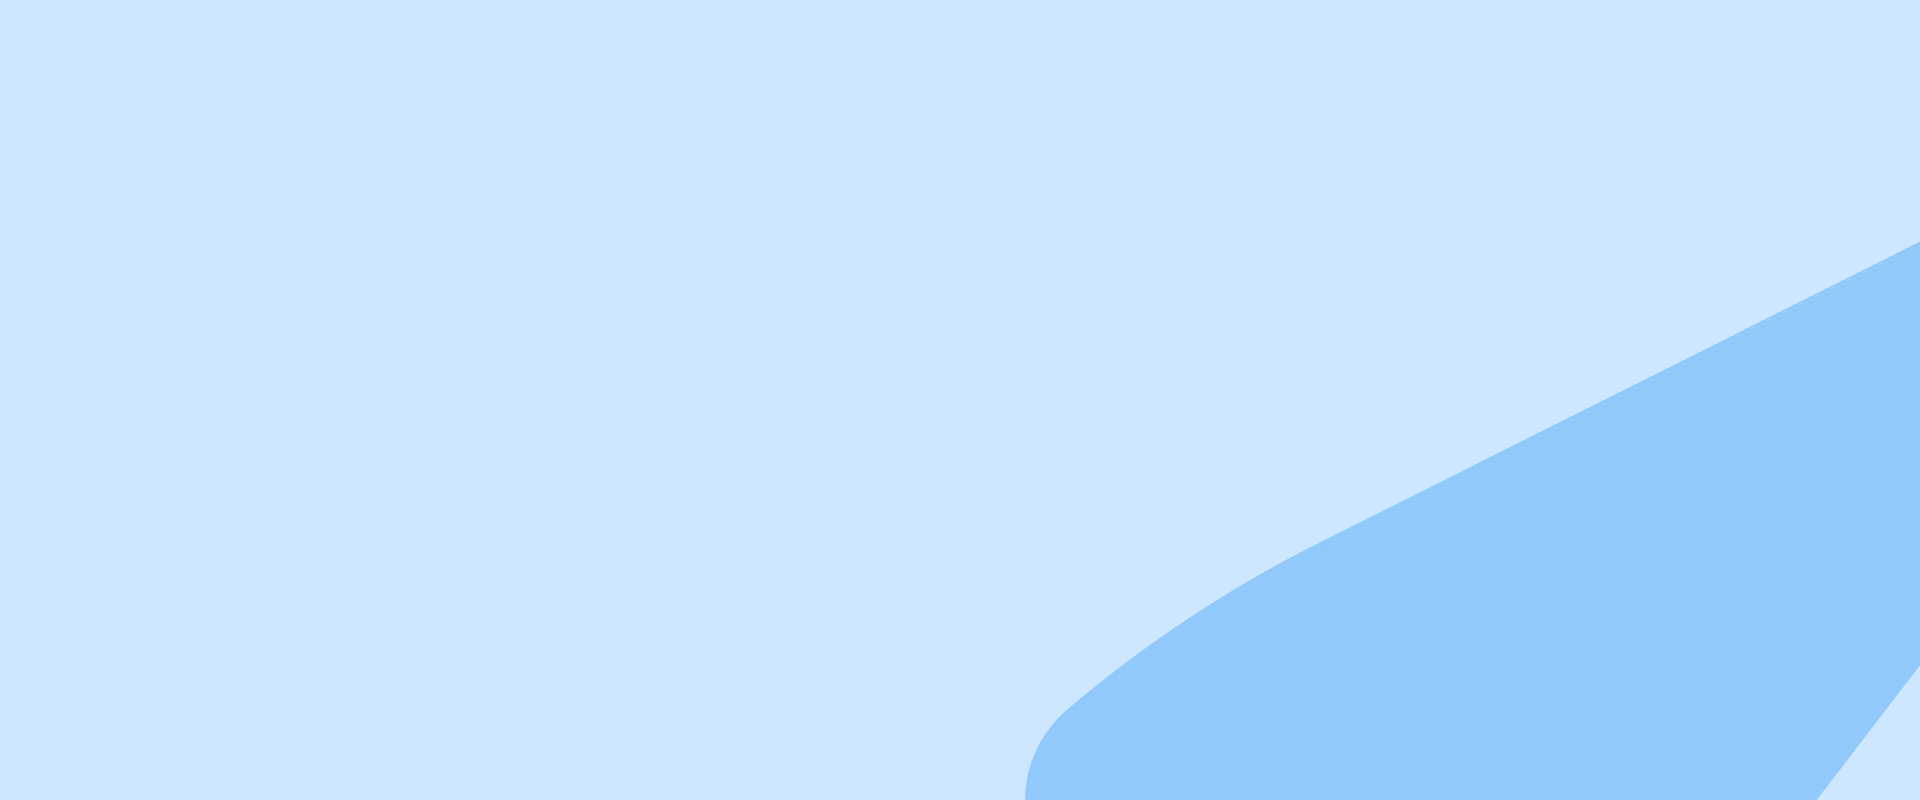
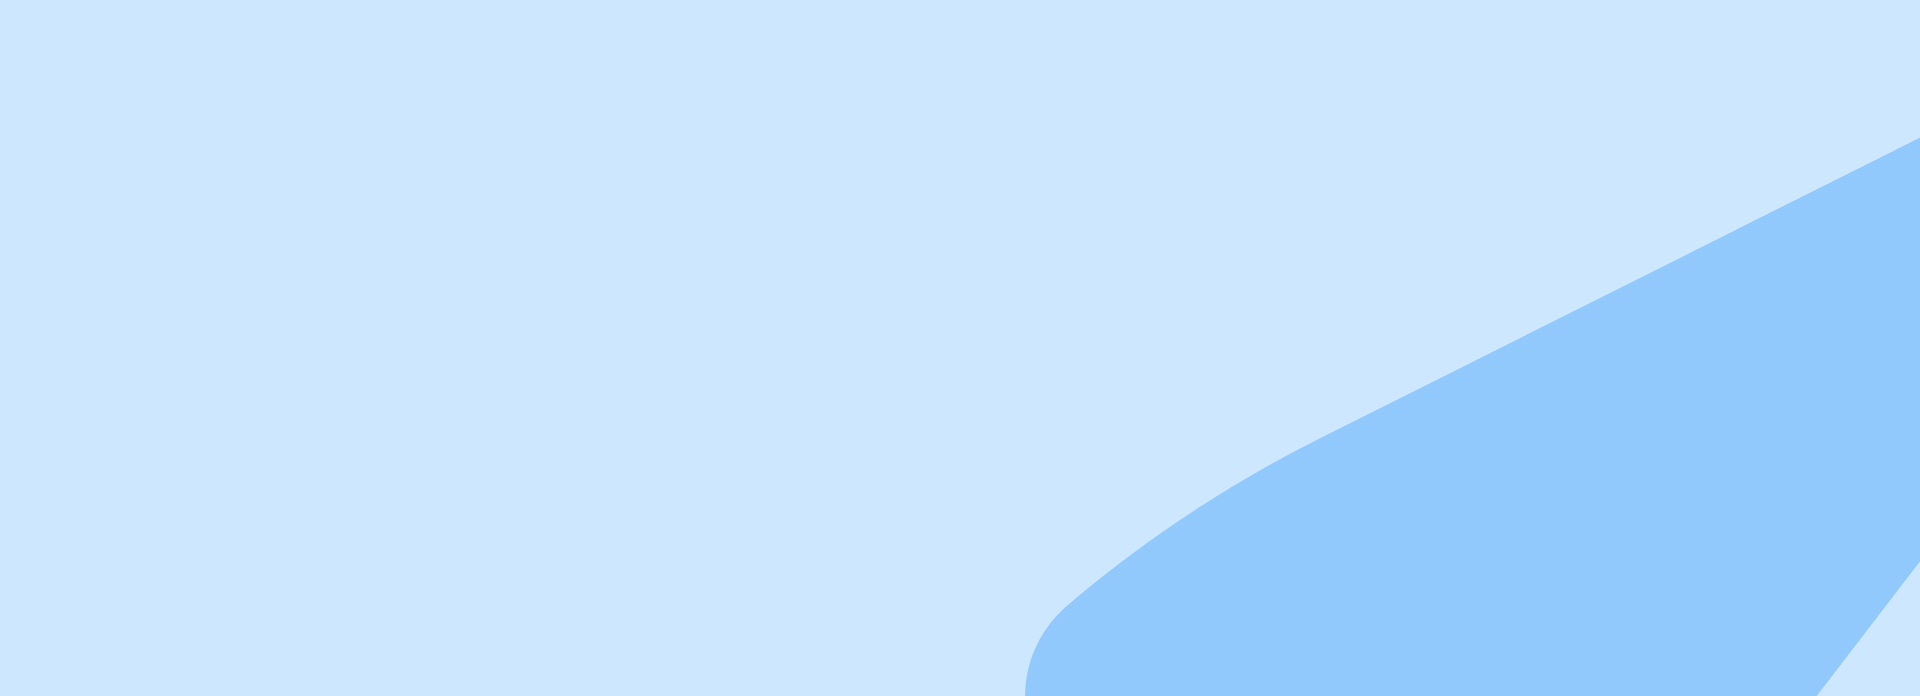
Hero section

Changed region(s): [[0.5625, 0.2112, 1.0, 0.875], [0.9688, 0.8147, 1.0, 0.9052], [0.5312, 0.875, 0.5625, 0.9052]]

diff --git a/src/components/heroSection/index.jsx b/src/components/heroSection/index.jsx
@@ -1,0 +1,32 @@
+import styles from './styles.module.css';
+import searchCompanyIcon from '../../assets/icons/search_company.svg';
+
+
+import HeroTitle from '../heroSection/heroTitle';
+import HeroSearchInput from '../heroSection/heroSearchInput';
+
+function HeroSection() {
+  return (
+    <div className={styles.heroSection}>
+      <HeroTitle title={'Один клик и работа в кармане'} />
+      <form>
+        <HeroSearchInput
+          type={'search'}
+          placeholder={'Должность или компания'}
+          name={'search_company'}
+          style={{
+            backgroundImage: `url(${searchCompanyIcon})`,
+            backgroundRepeat: 'no-repeat',
+          }}
+        />
+        <HeroSearchInput
+          type={'search'}
+          placeholder={'Должность или компания'}
+          name={'search_company'}
+        />
+      </form>
+    </div>
+  );
+}
+
+export default HeroSection;

diff --git a/src/components/headerSection/index.jsx b/src/components/headerSection/index.jsx
@@ -1,9 +1,9 @@
 import styles from './styles.module.css';
-import LinkBtn from '../linkBtn';
-import Logo from '../logo';
-import Nav from '../nav';
+import LinkBtn from './linkBtn';
+import Logo from './logo';
+import Nav from './nav';
 
-function Header() {
+function HeaderSection() {
   return (
     <div className={styles.header}>
       <div className={styles.headerLeft}>
@@ -18,4 +18,4 @@ function Header() {
   );
 }
 
-export default Header;
+export default HeaderSection;

diff --git a/src/components/heroSection/heroSearchInput/styles.module.css b/src/components/heroSection/heroSearchInput/styles.module.css
@@ -1,0 +1,11 @@
+.searchInput {
+  padding: 2.25rem 2.25rem 2.25rem 5rem;
+
+  background-repeat: no-repeat;
+  background-position: 2rem center;
+  background-size: 2rem;
+  /* background-image: url('../../../assets/icons/search_company.svg'); */
+
+  border: none;
+  box-shadow: 6px 5px 9px 0 rgba(0, 0, 0, 0.35);
+}

diff --git a/src/App.jsx b/src/App.jsx
@@ -1,10 +1,12 @@
 import './App.css';
-import Header from './components/header';
+import HeaderSection from './components/headerSection';
+import HeroSection from './components/heroSection';
 
 function App() {
   return (
     <>
-      <Header />
+      <HeaderSection />
+      <HeroSection />
     </>
   );
 }

diff --git a/src/components/heroSection/heroSearchInput/index.jsx b/src/components/heroSection/heroSearchInput/index.jsx
@@ -1,0 +1,11 @@
+import styles from './styles.module.css';
+
+function HeroSearchInput({ type, placeholder, name, style }) {
+  return (
+    <>
+      <input type={type} placeholder={placeholder} name={name} className={styles.searchInput} style={style} />
+    </>
+  );
+}
+
+export default HeroSearchInput;

diff --git a/src/index.css b/src/index.css
@@ -9,6 +9,13 @@
   -moz-osx-font-smoothing: grayscale;
 }
 
+* {
+  margin: 0;
+  padding: 0;
+  box-sizing: border-box;
+  font-size: 16px;
+}
+
 a {
   font-weight: 500;
   color: #274059;

diff --git a/src/components/headerSection/logo/index.jsx b/src/components/headerSection/logo/index.jsx
@@ -1,4 +1,4 @@
-import LogoImg from '../../assets/logos/Cooljob_logo.svg';
+import LogoImg from '../../../assets/logos/Cooljob_logo.svg';
 
 function Logo() {
   return (

diff --git a/src/components/heroSection/heroTitle/index.jsx b/src/components/heroSection/heroTitle/index.jsx
@@ -1,0 +1,5 @@
+function HeroTitle({ title }) {
+  return <h1>{title}</h1>;
+}
+
+export default HeroTitle;

diff --git a/src/components/heroSection/styles.module.css b/src/components/heroSection/styles.module.css
@@ -1,0 +1,3 @@
+.heroSection {
+  background-image: url(../../assets//img/hero_bg.jpg);
+}
